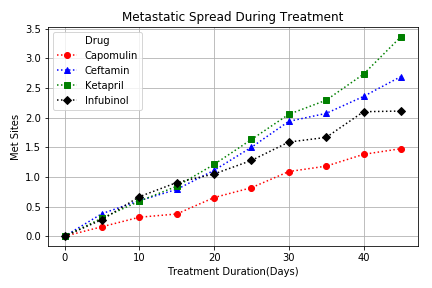
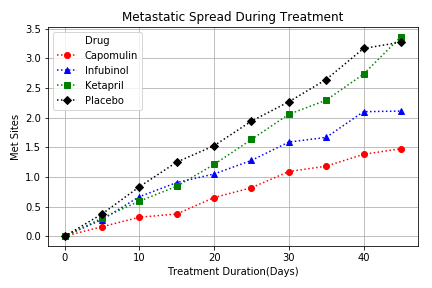
updated image files

diff --git a/5-Matplotlib/pymaceuticals.py b/5-Matplotlib/pymaceuticals.py
@@ -63,11 +63,11 @@ drugs_df =mean_tumor_volume_df.pivot_table('Tumor Volume (mm3)', ['Timepoint'], 
 drugs_df
 
 
-# In[316]:
+# In[346]:
 
 
 # Generate the Plot (with Error Bars)
-drugs_plot_df = drugs_df[['Capomulin','Ceftamin', 'Ketapril', 'Infubinol']].copy()
+drugs_plot_df = drugs_df[['Capomulin','Infubinol', 'Ketapril', 'Placebo']].copy()
 styles = ['ro:','b^:','gs:','kD:']
 fig1 = drugs_plot_df.plot(kind='line', title='Tumor Response to Treatment', grid='On', legend=True, style=styles)
 fig1.set_xlabel('Time(Days)')
@@ -117,11 +117,11 @@ drugs_met_df =mean_met_sites_df.pivot_table('Metastatic Sites', ['Timepoint'], '
 drugs_met_df.head()
 
 
-# In[321]:
+# In[347]:
 
 
 # Generate the Plot (with Error Bars)
-drugs_met_plot_df = drugs_met_df[['Capomulin','Ceftamin', 'Ketapril', 'Infubinol']].copy()
+drugs_met_plot_df = drugs_met_df[['Capomulin','Infubinol', 'Ketapril', 'Placebo']].copy()
 styles = ['ro:','b^:','gs:','kD:']
 #labels = ['Capomulin','Ceftamin', 'Ketapril', 'Infubinol']
 fig2 = drugs_met_plot_df.plot(kind='line', title='Metastatic Spread During Treatment', grid='On', legend=True, style=styles)
@@ -208,7 +208,7 @@ per_change_df['Drug'] = per_change_df['Drug'] * 100
 per_change_df.rename(columns={'Drug': ''})
 
 
-# In[342]:
+# In[345]:
 
 
 # Store all Relevant Percent Changes into a Tuple
@@ -252,6 +252,7 @@ plt.bar(np.arange(len(xlabels)),
         data, align='center',
         color = ['red' if data[r] > 0 else 'green' for r in np.arange(len(xlabels))]
        )
+
 #print(fig1)
 # Save the Figure
 #fig1 = fig1.get_figure()
